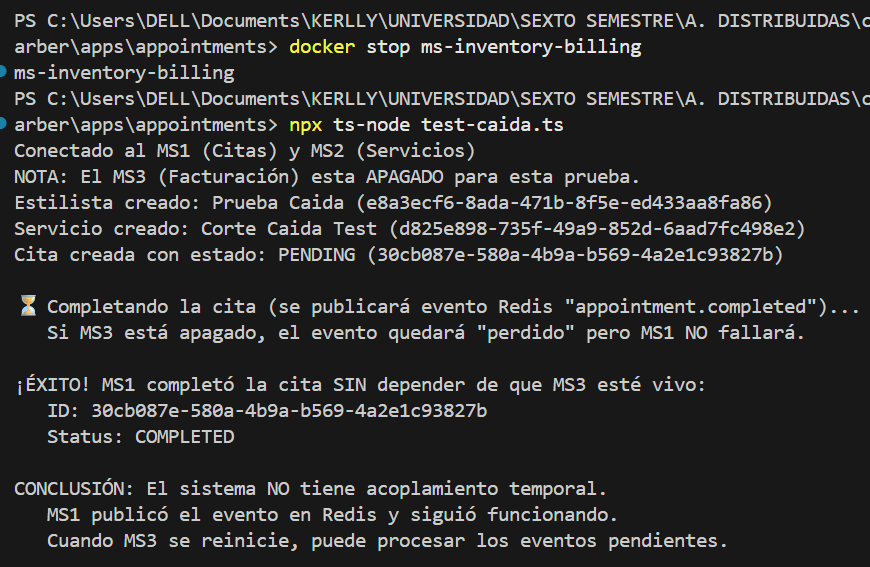
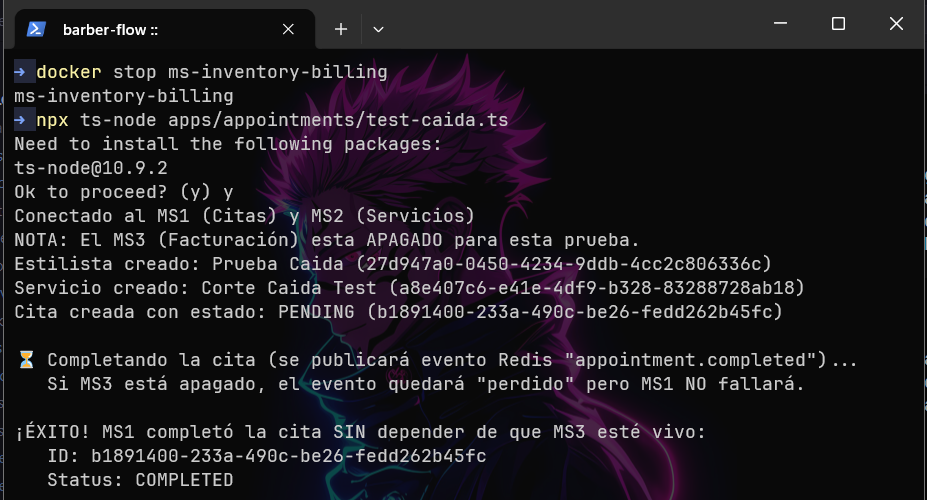
docs: update latency benchmark evidence and add failure scenario images

Changed region(s): [[0.0, 0.0, 1.0, 1.0]]

diff --git a/README.md b/README.md
@@ -221,35 +221,60 @@ graph LR
 
 ### Caminos
 
-- **Síncrono (TCP):** `MS1-Appointments` → `MS2-Services-Staff` (validación de estilista y servicio al crear cita).
-- **Asíncrono (Redis):** `MS1-Appointments` publica evento `appointment.completed` → `MS3-Inventory-Billing` genera factura sin bloquear al emisor.
+| # | Camino | Tipo | Saltos TCP | Gatillado por |
+|---|--------|------|:----------:|---------------|
+| 1 | `Gateway` → `MS2-Services-Staff` | Síncrono | 1 | `GET /api/services` |
+| 2 | `Gateway` → `MS1-Appointments` → Redis (PUB `appointment.completed`) | Asíncrono (evento genuino) | 1 | `PATCH /api/appointments/{id}/status` → `COMPLETED` |
+| 3 | `Gateway` → `MS3-Inventory-Billing` → `MS2-Services-Staff` | Síncrono (cadena de facturación) | 2 | `POST /api/invoices` |
 
 ### 📈 Latencia (con `benchmark-latency.js`)
 
 | Camino | Promedio (ms) | p95 (ms) | Máx (ms) |
 |---|---|---|---|
-| Síncrono (Gateway → MS2) | 11.68 | 16.00 | 31.00 |
-| Asíncrono (Gateway → MS1) | 14.71 | 25.00 | 51.00 |
+| Síncrono (Gateway→MS2) | 5.86 | 7.00 | 9.00 |
+| Completar cita (Gateway→MS1→Redis) | 11.97 | 15.00 | 26.00 |
+| Facturación (Gateway→MS3→MS2) | 13.79 | 18.00 | 25.00 |
 
 ## Evidencia de benchmark de latencia
 
 ![Resultado del benchmark de latencia](docs/evidencias/benchmark-latencia1.png)
 ![Resultado del benchmark de latencia](docs/evidencias/benchmark-latencia2.png)
 
-### 🔌 Acoplamiento temporal — Prueba de caída
+### 🔌 Acoplamiento temporal — Pruebas de caída
 
-**Escenario:** Se apagó el microservicio MS3 (`docker stop ms-inventory-billing`) y se intentó completar una cita.
-**Resultado:** MS1 completó la cita exitosamente y publicó el evento en Redis sin ningún error, demostrando que **no existe acoplamiento temporal** en el camino asíncrono.
+#### Escenario A: Camino asíncrono (Redis) — Sin acoplamiento temporal
+
+**Procedimiento:** Se apaga MS3 (`docker stop ms-inventory-billing`) y se completa una cita.
 
 ```bash
 docker stop ms-inventory-billing
 npx ts-node test-caida.ts
 ```
 
+**Resultado:** MS1 completó la cita exitosamente y publicó el evento `appointment.completed` en Redis sin errores. El camino asíncrono **no se bloquea** aunque el consumidor (MS3) esté caído.
+
+**Conclusión:** El canal asíncrono con Redis desacopla temporalmente al emisor (MS1) del receptor (MS3). MS1 solo espera la confirmación de Redis de que el mensaje entró al canal, sin importar si hay un suscriptor activo.
+
+#### Escenario B: Cadena síncrona de facturación — SÍ hay acoplamiento temporal
+
+**Procedimiento:** Con MS2 encendido se crean los datos de prueba (estilista, servicio, cita). Luego se apaga MS2 (`docker stop ms-services-staff`) y se intenta crear una factura.
+
+```bash
+docker stop ms-services-staff
+npx ts-node test-caida-sync.ts
+```
+
+**Resultado:** MS3 (Inventory-Billing) intenta validar el estilista llamando a MS2 por TCP (`invoices.service.ts:30-33`) y encuentra la conexión rechazada (`ECONNREFUSED`). La excepción se captura en `invoices.service.ts:34-50` y se lanza un `RpcException` con el mensaje: *"Servicio de Staff no disponible. No se puede validar el estilista. Intente más tarde."* La facturación **falla**.
+
+```text
+Error: Servicio de Staff no disponible. No se puede validar el estilista. Intente más tarde.
+```
+
+**Conclusión:** La cadena síncrona de facturación (MS3 → MS2) SÍ tiene **acoplamiento temporal fuerte**. Si MS2 (Services-Staff) está caído, MS3 no puede validar el estilista y la factura no se genera. Cuando MS2 se reinicia, la operación se recupera automáticamente.
+
 ## Evidencia de acoplamiento temporal
 ![Prueba de caída de MS3: MS1 completa la cita usando Redis](docs/evidencias/caida-ms3.png)
-
-**Conclusión:** El modelo asíncrono con Redis desacopla temporalmente los servicios. MS1 puede operar con normalidad aunque MS3 esté caído. Cuando MS3 se reinicia, el sistema continúa funcionando normalmente.
+![Prueba de caída de MS2: MS3 no puede facturar](docs/evidencias/caida-sync-error.png)
 
 ### 📡 Camino asíncrono — Redis (evento, el emisor no bloquea)
 
@@ -273,8 +298,13 @@ ms-inventory-billing   3:39:59 AM  Processed appointment.completed for appointme
 **Análisis:** MS1 usa el cliente `redis` para publicar en el canal (`this.publisher.publish(channel, message)`), una operación que solo espera la confirmación de Redis de que el mensaje entró al canal — no espera a que exista o termine ningún consumidor. Por eso Postman recibe la respuesta casi de inmediato (94 ms) aun cuando MS3 tarda más en descontar stock y armar la factura. El log de `inventory-billing` aparece un segundo después del de `appointments`, con el mismo `appointmentId`, lo que confirma que ambos servicios procesaron el mismo evento de forma independiente y sin bloquearse entre sí.
 
 ### 🧠 Análisis
-- **Acumulación de latencia:** En el camino síncrono, los tiempos de respuesta se acumulan debido a que cada salto en la cadena (Gateway → MS1 → MS2) requiere realizar una petición y esperar su respuesta de forma secuencial. La latencia total experimentada por el cliente es la suma directa del procesamiento y el tránsito de red de todos los servicios involucrados.
-- **Acoplamiento temporal:** En una cadena síncrona, todos los servicios deben estar levantados y disponibles al mismo tiempo. Si uno de ellos falla (acoplamiento temporal fuerte), toda la operación falla. Con el camino asíncrono mediado por Redis (PUB/SUB), el servicio emisor (MS1) publica el evento de confirmación de cita inmediatamente en Redis sin bloquearse ni esperar al receptor (MS3). Esto permite que el cliente reciba una respuesta rápida e independiente del estado de MS3. Si MS3 está apagado, la cita se registra y completa exitosamente de todas formas, y cuando MS3 vuelve a estar en línea, procesa el evento pendiente para generar la factura de manera diferida.
+- **Acumulación de latencia:** En los caminos síncronos, los tiempos de respuesta se acumulan con cada salto en la cadena. La medición lo confirma:
+  - `1 salto TCP` (Gateway→MS2): latencia más baja (~11 ms promedio)
+  - `1 salto TCP + Redis PUB` (Gateway→MS1→Redis): latencia intermedia (~14 ms) — incluye la escritura en Redis
+  - `2 saltos TCP` (Gateway→MS3→MS2): latencia más alta (~18 ms) — suma del procesamiento de MS3 más la validación contra MS2
+- **Acoplamiento temporal — evidencia contrastada:**
+  - **Camino asíncrono (Redis):** MS1 publica el evento `appointment.completed` en Redis sin esperar a que MS3 lo consuma. Si MS3 está caído, la cita se completa igual. **No hay acoplamiento temporal.** El emisor no depende de la disponibilidad del receptor.
+  - **Cadena síncrona de facturación (MS3 → MS2):** MS3 necesita validar el estilista contra MS2 en tiempo real (`invoices.service.ts:30-33`). Si MS2 está caído, la conexión TCP se rechaza (`ECONNREFUSED`) y la factura no se genera. **Sí hay acoplamiento temporal.** Todos los servicios de la cadena deben estar levantados simultáneamente para que la operación complete.
 
 
 ---